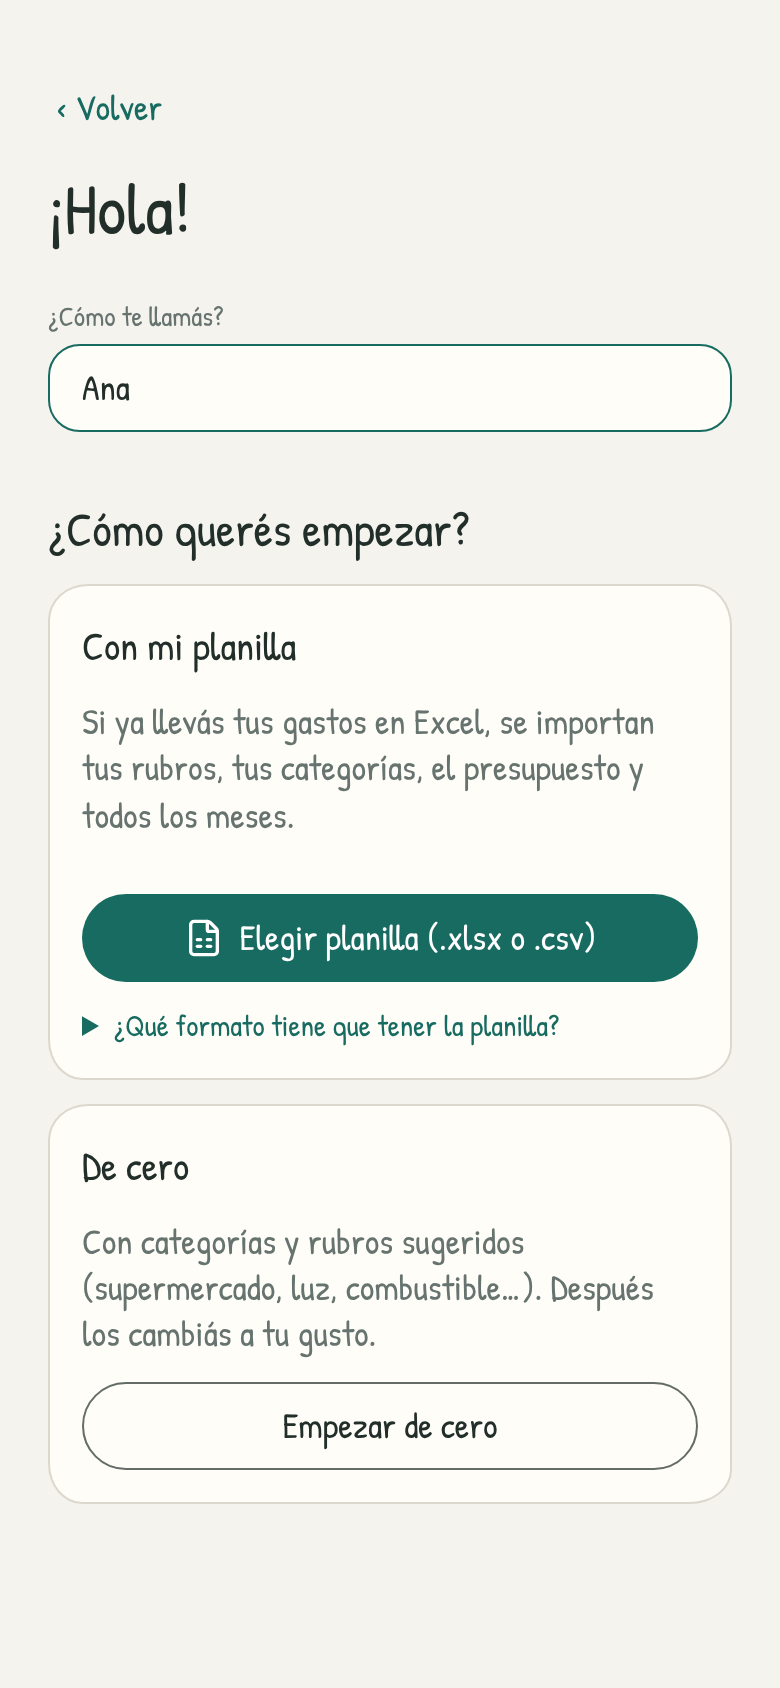
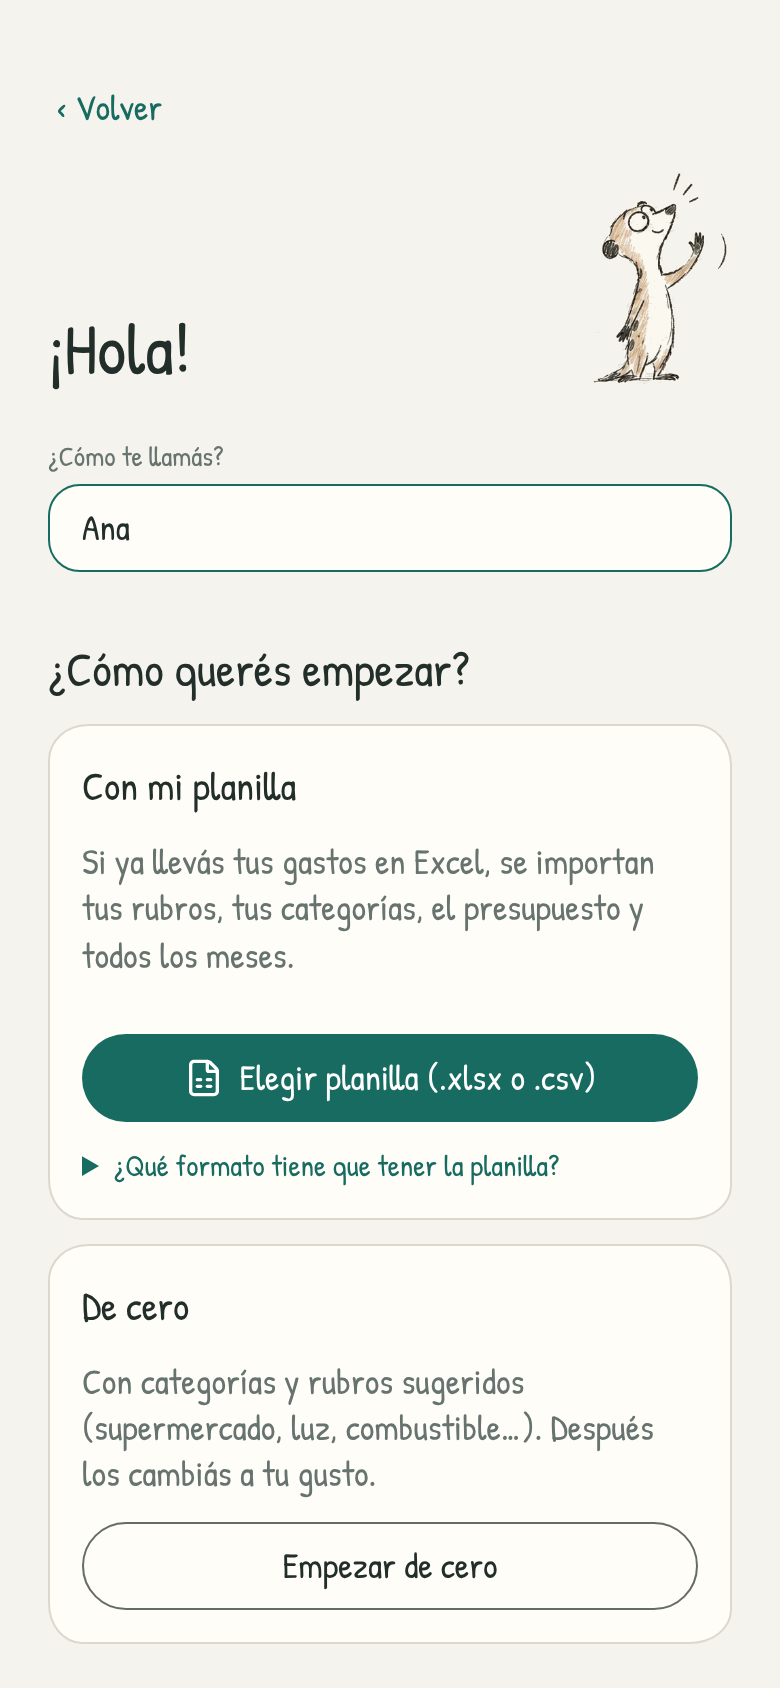
Suricata: el personaje de Pengar en la app; solo modo claro
- Poses recortadas de la hoja de personaje (scripts/suricata.py), con la silueta rellena de papel
- Bienvenida, saludo en Inicio, cara según cómo viene el mes, estados vacíos, lectura de facturas,
  metas (festeja al llegar), presupuesto, categorías y ayuda
- Ícono de la app con el suricata principal
- Sin modo oscuro por ahora (también en iOS: UIUserInterfaceStyle Light)

Claude-Session: https://claude.ai/code/session_01Qseq1gkBETEkqbL7BodUmT

diff --git a/src/screens/Home.tsx b/src/screens/Home.tsx
@@ -1,7 +1,7 @@
 import { ArrowDown, ArrowUp, Camera, Minus, Plus, Target } from 'lucide-react';
 import { BudgetRows } from '../components/charts/BudgetRows';
 import { Columns } from '../components/charts/Columns';
-import { Sprout } from '../components/Illustrations';
+import { Suricata, type Pose } from '../components/Suricata';
 import { MovementRow } from '../components/MovementRow';
 import { addMonths, currentMonth, monthLabel } from '../domain/dates';
 import { formatPct } from '../domain/money';
@@ -36,27 +36,32 @@ export function Home({ onAdd, onScan, onEdit, onGo }: {
     .sort((a, b) => b.date.localeCompare(a.date) || b.createdAt - a.createdAt)
     .slice(0, 5);
   const hasMonthsOnly = !recent.length && data.movements.length > 0;
+  // La cara del suricata según cómo viene el mes
+  const mood: Pose = k.balance < 0 ? 'cara-preocupado' : summary.budget > 0 && summary.diff > 0 ? 'cara-pensando' : k.income > 0 ? 'cara-feliz' : 'cara-normal';
 
   return (
     <div className="space-y-4 px-4 pt-[calc(env(safe-area-inset-top)+16px)]">
-      <header className="px-1">
-        <div className="text-xl text-muted">Hola,</div>
-        <h1 className="text-4xl leading-tight">{data.settings.name || 'de nuevo'}</h1>
+      <header className="flex items-end justify-between px-1">
+        <div className="pb-2">
+          <div className="text-xl text-muted">Hola,</div>
+          <h1 className="text-4xl leading-tight">{data.settings.name || 'de nuevo'}</h1>
+        </div>
+        <Suricata pose="saludando" size={92} />
       </header>
 
       <section className="card relative overflow-hidden p-5">
         <div className="text-lg text-muted">Te queda en {monthLabel(month, { year: false }).toLowerCase()}</div>
         <div className={`mt-1 text-[44px] leading-none ${k.balance < 0 ? 'text-danger' : ''}`}>{money(k.balance)}</div>
-        <div className="mt-2 text-[15px] text-muted">
+        <div className="mt-2 pr-20 text-[15px] text-muted">
           Entró {money(k.income)} · Gastaste {money(k.expense)}{savings > 0 ? ` · Ahorraste ${money(savings)}` : ''}
         </div>
         {change != null && (
-          <div className={`mt-2 flex items-center gap-1 text-[15px] ${change > 0 ? 'text-danger' : 'text-ok'}`}>
+          <div className={`mt-2 flex items-center gap-1 pr-20 text-[15px] ${change > 0 ? 'text-danger' : 'text-ok'}`}>
             {change > 0 ? <ArrowUp size={16} /> : <ArrowDown size={16} />}
             {formatPct(Math.abs(change))} {change > 0 ? 'más' : 'menos'} de gastos que el mes anterior
           </div>
         )}
-        <Sprout className="absolute -right-1 top-3 h-24 w-24 opacity-90" />
+        <Suricata pose={mood} size={104} className="absolute -bottom-1 right-2" />
       </section>
 
       <section className="grid grid-cols-4 gap-2 px-1">
@@ -104,11 +109,14 @@ export function Home({ onAdd, onScan, onEdit, onGo }: {
         {recent.length ? (
           <div className="divide-y divide-line">{recent.map((m) => <MovementRow key={m.id} m={m} onClick={() => onEdit(m)} />)}</div>
         ) : (
-          <p className="py-4 text-muted">
+          <div className="flex items-center gap-3 py-3">
+            <Suricata pose="lista" size={96} />
+            <p className="text-muted">
             {hasMonthsOnly
               ? 'Tus meses importados están en Movimientos. Lo que anotes desde ahora aparece acá, día por día.'
               : 'Todavía no anotaste nada. Tocá «Gasto» o sacale una foto a una factura.'}
-          </p>
+            </p>
+          </div>
         )}
       </section>
       <div className="h-4" />

diff --git a/src/screens/Stats.tsx b/src/screens/Stats.tsx
@@ -6,6 +6,7 @@ import { HBars } from '../components/charts/HBars';
 import { Legend, TimeChart } from '../components/charts/TimeChart';
 import { Icon } from '../components/Icon';
 import { PageHeader } from '../components/Sheet';
+import { EmptyState, Suricata } from '../components/Suricata';
 import { Segmented, Toggle } from '../components/Toggle';
 import { addMonths, currentMonth, monthLabel, monthOf } from '../domain/dates';
 import { formatPct } from '../domain/money';
@@ -76,7 +77,7 @@ function Trends() {
   const activeGroup = folded.find((g) => g.key === active);
   const label = by === 'category' ? 'categoría' : 'rubro';
 
-  if (!span) return <p className="py-10 text-center text-muted">Cuando anotes gastos, acá vas a ver cómo cambian en el tiempo.</p>;
+  if (!span) return <EmptyState pose="analizando" title="Todavía no hay números">Cuando anotes gastos, acá vas a ver cómo cambian en el tiempo.</EmptyState>;
 
   return (
     <>
@@ -168,6 +169,7 @@ function MonthView({ month, setMonth }: { month: string; setMonth: (m: string) =
   const [open, setOpen] = useState<string | null>(null);
   const s = monthSummary(data, ix, month, includeSavings);
   const cards = percentCards(data, ix, month);
+  const over = s.rows.find((r) => r.status === 'over');
 
   const detail = useMemo(() => {
     const byCat = new Map<string, Map<string, number>>();
@@ -197,6 +199,17 @@ function MonthView({ month, setMonth }: { month: string; setMonth: (m: string) =
         <Kpi label="Presupuesto" value={money(s.budget)} />
         <Kpi label={s.diff > 0 ? 'Pasado del presupuesto' : 'Debajo del presupuesto'} value={money(Math.abs(s.diff))} tone={s.diff > 0 ? 'danger' : 'ok'} />
       </div>
+
+      {s.budget > 0 && (
+        <div className="card flex items-center gap-3 px-4 py-2">
+          <Suricata pose={s.diff > 0 ? 'cara-preocupado' : 'cara-feliz'} size={84} />
+          <p className="text-[17px]">
+            {s.diff > 0
+              ? <>Este mes te pasaste {money(s.diff)} del presupuesto. {over ? <>Lo que más se fue: <b>{over.category.name}</b>.</> : null}</>
+              : <>¡Vas bien! Te quedan {money(-s.diff)} del presupuesto de {monthLabel(month, { year: false }).toLowerCase()}.</>}
+          </p>
+        </div>
+      )}
 
       <Card title="Real contra presupuesto" sub="La barra es lo gastado; la rayita, el presupuesto de la categoría.">
         {s.rows.length ? <BudgetRows rows={s.rows} onSelect={(id) => setOpen(open === id ? null : id)} /> : <p className="text-muted">No hay gastos ni presupuesto este mes.</p>}

diff --git a/src/screens/Goals.tsx b/src/screens/Goals.tsx
@@ -2,6 +2,7 @@ import { Plus } from 'lucide-react';
 import { useState } from 'react';
 import { CategoryBubble, Icon } from '../components/Icon';
 import { PageHeader, Sheet } from '../components/Sheet';
+import { EmptyState, Suricata } from '../components/Suricata';
 import { parseAmount } from '../domain/money';
 import { ICON_CHOICES, newId } from '../domain/template';
 import type { Goal } from '../domain/types';
@@ -23,20 +24,23 @@ export function Goals({ onBack }: { onBack: () => void }) {
       />
       <div className="space-y-3 px-4 pb-10">
         {!data.goals.length && (
-          <div className="card p-5 text-center">
-            <p className="text-lg">¿Estás juntando para algo?</p>
-            <p className="text-muted">Vacaciones, el auto, la casa… Poné cuánto necesitás y andá sumando.</p>
-            <button className="btn-primary mt-4" onClick={() => setEdit('new')}><Plus size={18} /> Nueva meta</button>
+          <div className="card">
+            <EmptyState pose="metas" title="¿Estás juntando para algo?">
+              <p>Vacaciones, el auto, la casa… Poné cuánto necesitás y andá sumando.</p>
+              <button className="btn-primary mt-4" onClick={() => setEdit('new')}><Plus size={18} /> Nueva meta</button>
+            </EmptyState>
           </div>
         )}
         {data.goals.map((g) => {
           const pct = g.target > 0 ? Math.min(1, g.saved / g.target) : 0;
           return (
             <div key={g.id} className="card flex items-center gap-4 p-4">
-              <button onClick={() => setEdit(g)} aria-label={`Editar ${g.name}`}><CategoryBubble icon={g.icon} color="#176B60" size={60} /></button>
+              <button onClick={() => setEdit(g)} aria-label={`Editar ${g.name}`}>
+                {pct >= 1 ? <Suricata pose="celebrando" size={64} /> : <CategoryBubble icon={g.icon} color="#176B60" size={60} />}
+              </button>
               <div className="min-w-0 flex-1">
                 <button className="w-full text-left" onClick={() => setEdit(g)}>
-                  <div className="text-xl">{g.name}</div>
+                  <div className="text-xl">{g.name}{pct >= 1 && <span className="ml-2 text-[15px] text-ok">¡Lo lograste!</span>}</div>
                   <div className="text-[16px]">{money(g.saved)} <span className="text-muted">/ {money(g.target)}</span></div>
                 </button>
                 <div className="mt-2 flex items-center gap-2">

diff --git a/src/screens/Welcome.tsx b/src/screens/Welcome.tsx
@@ -1,7 +1,7 @@
 import { useRef, useState } from 'react';
 import { ImportFlow, ImportFormatHelp } from '../components/ImportFlow';
 import { Landscape } from '../components/Illustrations';
-import { LogoMark } from '../components/Logo';
+import { Suricata } from '../components/Suricata';
 import { readBackup } from '../lib/backup';
 import { useStore } from '../store/store';
 
@@ -15,11 +15,11 @@ export function Welcome() {
 
   if (step === 'hola') {
     return (
-      <div className="flex min-h-full flex-col items-center px-8 pt-[calc(env(safe-area-inset-top)+12vh)] pb-[calc(env(safe-area-inset-bottom)+24px)]">
-        <LogoMark size={120} />
-        <h1 className="mt-2 text-6xl">Pengar</h1>
+      <div className="flex min-h-full flex-col items-center px-8 pt-[calc(env(safe-area-inset-top)+7vh)] pb-[calc(env(safe-area-inset-bottom)+24px)]">
+        <Suricata pose="principal" size={240} />
+        <h1 className="mt-1 text-6xl">Pengar</h1>
         <p className="mt-1 text-xl text-muted">Tu dinero, más simple.</p>
-        <Landscape className="mt-auto w-full max-w-sm" />
+        <Landscape className="mt-auto w-full max-w-sm opacity-90" />
         <div className="mt-6 flex w-full max-w-sm flex-col gap-3">
           <button className="btn-primary text-xl" onClick={() => setStep('empezar')}>Comenzar</button>
           <button className="btn-outline" onClick={() => backupInput.current?.click()}>Restaurar un respaldo</button>
@@ -49,7 +49,10 @@ export function Welcome() {
   return (
     <div className="mx-auto max-w-md px-6 pt-[calc(env(safe-area-inset-top)+32px)] pb-[calc(env(safe-area-inset-bottom)+32px)]">
       <button className="btn-ghost -ml-4" onClick={() => setStep('hola')}>‹ Volver</button>
-      <h1 className="mt-2 text-4xl">¡Hola!</h1>
+      <div className="mt-2 flex items-end justify-between">
+        <h1 className="text-4xl">¡Hola!</h1>
+        <Suricata pose="saludando" size={110} />
+      </div>
       <label className="mt-6 block">
         <span className="label">¿Cómo te llamás?</span>
         <input className="field" value={name} onChange={(e) => setName(e.target.value)} placeholder="Tu nombre" autoFocus />

diff --git a/src/screens/Settings.tsx b/src/screens/Settings.tsx
@@ -2,14 +2,12 @@ import { Download, Sparkles, Upload } from 'lucide-react';
 import { useRef, useState } from 'react';
 import { ImportFlow, ImportFormatHelp } from '../components/ImportFlow';
 import { PageHeader } from '../components/Sheet';
-import { Segmented } from '../components/Toggle';
 import { useToast } from '../components/Toast';
 import { today } from '../domain/dates';
 import { movementsCsv } from '../domain/export';
 import { emptyData } from '../domain/template';
 import { makeBackup, readBackup } from '../lib/backup';
 import { saveOrShare } from '../lib/files';
-import { getTheme, setTheme, type ThemeChoice } from '../lib/theme';
 import { useStore } from '../store/store';
 
 const MODELS = [
@@ -31,7 +29,6 @@ export function Settings({ onBack }: { onBack: () => void }) {
   const { data, updateSettings, replaceAll } = useStore();
   const toast = useToast();
   const s = data.settings;
-  const [theme, setThemeState] = useState<ThemeChoice>(getTheme());
   const [importing, setImporting] = useState(false);
   const [showKey, setShowKey] = useState(false);
   const restore = useRef<HTMLInputElement>(null);
@@ -57,14 +54,6 @@ export function Settings({ onBack }: { onBack: () => void }) {
                 <option value={2}>Con 2 decimales</option>
               </select>
             </div>
-          </div>
-          <div>
-            <div className="label">Apariencia</div>
-            <Segmented
-              value={theme}
-              onChange={(t) => { setThemeState(t); setTheme(t); }}
-              options={[{ id: 'auto', label: 'Como el iPhone' }, { id: 'light', label: 'Clara' }, { id: 'dark', label: 'Oscura' }]}
-            />
           </div>
         </Section>
 

diff --git a/src/components/Suricata.tsx b/src/components/Suricata.tsx
@@ -1,0 +1,28 @@
+/**
+ * El suricata de Pengar, dibujado a lápiz. Cada pose es un recorte de docs/marca (ver scripts/suricata.py).
+ * Poses de cuerpo entero para estados vacíos y pantallas; caras («cara-…») para reaccionar a los números.
+ */
+const files = import.meta.glob<string>('../assets/suricata/*.webp', { eager: true, query: '?url', import: 'default' });
+
+export type Pose =
+  | 'principal' | 'saludando' | 'contento' | 'ahorrando' | 'pensando' | 'calculadora' | 'lista' | 'organizando'
+  | 'analizando' | 'metas' | 'compras' | 'transportes' | 'casa' | 'celebrando'
+  | 'cara-normal' | 'cara-feliz' | 'cara-sorprendido' | 'cara-pensando' | 'cara-preocupado' | 'cara-decidido'
+  | 'cara-triste' | 'cara-entusiasmado' | 'cara-curioso';
+
+export function Suricata({ pose, size = 120, className = '', alt = '' }: { pose: Pose; size?: number; className?: string; alt?: string }) {
+  const src = files[`../assets/suricata/${pose}.webp`];
+  if (!src) return null;
+  return <img src={src} alt={alt} draggable={false} className={`pointer-events-none select-none object-contain ${className}`} style={{ height: size, width: 'auto' }} />;
+}
+
+/** Estado vacío: el suricata con un texto debajo */
+export function EmptyState({ pose, title, children }: { pose: Pose; title: string; children?: React.ReactNode }) {
+  return (
+    <div className="flex flex-col items-center px-6 py-8 text-center">
+      <Suricata pose={pose} size={150} />
+      <p className="mt-3 text-xl">{title}</p>
+      {children && <div className="mt-1 text-muted">{children}</div>}
+    </div>
+  );
+}

diff --git a/src/screens/ScanInvoice.tsx b/src/screens/ScanInvoice.tsx
@@ -2,6 +2,7 @@ import { Camera, FileText, ImageIcon, Plus, Sparkles, Trash2 } from 'lucide-reac
 import { useEffect, useMemo, useRef, useState } from 'react';
 import { RubroPicker } from '../components/RubroPicker';
 import { PageHeader, Sheet } from '../components/Sheet';
+import { Suricata } from '../components/Suricata';
 import { Segmented } from '../components/Toggle';
 import { useToast } from '../components/Toast';
 import { suggestRubro } from '../domain/classify';
@@ -64,13 +65,15 @@ export function ScanInvoice({ onClose }: { onClose: () => void }) {
       {input(pdf, 'application/pdf,.pdf')}
       {progress ? (
         <div className="flex flex-col items-center gap-4 px-8 py-24 text-center">
-          <div className="h-12 w-12 animate-spin rounded-full border-4 border-soft border-t-primary" />
+          <Suricata pose="calculadora" size={170} className="animate-pulse" />
           <p className="text-xl">{progress}</p>
+          <div className="h-6 w-6 animate-spin rounded-full border-[3px] border-soft border-t-primary" />
         </div>
       ) : draft ? (
         <Review draft={draft} onDone={onClose} onRetry={() => setDraft(null)} />
       ) : (
         <div className="space-y-3 px-4 pb-10">
+          <div className="flex justify-center"><Suricata pose="lista" size={150} /></div>
           <p className="px-1 text-lg text-muted">
             Sacale una foto a un ticket o subí el PDF de una factura. Pengar lee el comercio, la fecha, el total y cada renglón, y le pone el rubro.
           </p>

diff --git a/src/screens/Budget.tsx b/src/screens/Budget.tsx
@@ -1,6 +1,7 @@
 import { useState } from 'react';
 import { Icon } from '../components/Icon';
 import { PageHeader } from '../components/Sheet';
+import { Suricata } from '../components/Suricata';
 import { currentMonth } from '../domain/dates';
 import { parseAmount } from '../domain/money';
 import { budgetAmount, incomeFor } from '../domain/stats';
@@ -20,7 +21,10 @@ export function Budget({ onBack }: { onBack: () => void }) {
     <div>
       <PageHeader title="Presupuesto" onBack={onBack} />
       <div className="space-y-4 px-4 pb-10">
-        <p className="px-1 text-muted">Cuánto pensás gastar por mes en cada categoría. Se compara con lo real en Estadísticas → Mes.</p>
+        <div className="flex items-center gap-3 px-1">
+          <p className="flex-1 text-muted">Cuánto pensás gastar por mes en cada categoría. Se compara con lo real en Estadísticas → Mes.</p>
+          <Suricata pose="organizando" size={90} />
+        </div>
         <div className="grid grid-cols-2 gap-3">
           <div className="card px-4 py-3"><div className="text-[15px] text-muted">Gastos sin ahorro</div><div className="text-2xl">{money(noSavings)}</div></div>
           <div className="card px-4 py-3"><div className="text-[15px] text-muted">Con ahorro</div><div className="text-2xl">{money(total)}</div></div>

diff --git a/src/screens/Movements.tsx b/src/screens/Movements.tsx
@@ -2,6 +2,7 @@ import { ChevronLeft, ChevronRight, Plus, Search } from 'lucide-react';
 import { useMemo, useState } from 'react';
 import { MovementRow } from '../components/MovementRow';
 import { PageHeader } from '../components/Sheet';
+import { EmptyState } from '../components/Suricata';
 import { addMonths, currentMonth, dayLabel, monthLabel, monthOf } from '../domain/dates';
 import { norm } from '../domain/importSheet';
 import type { Movement } from '../domain/types';
@@ -82,7 +83,11 @@ export function Movements({ onAdd, onEdit, month, setMonth }: {
             <div className="divide-y divide-line">{g.items.map((m) => <MovementRow key={m.id} m={m} onClick={() => onEdit(m)} />)}</div>
           </section>
         ))}
-        {!groups.length && <p className="py-10 text-center text-muted">{q ? 'Nada coincide con la búsqueda.' : 'No hay movimientos este mes.'}</p>}
+        {!groups.length && (
+          <EmptyState pose={q ? 'pensando' : 'lista'} title={q ? 'Nada coincide con la búsqueda' : 'No hay movimientos este mes'}>
+            {!q && 'Anotá un gasto con el + o escaneá una factura.'}
+          </EmptyState>
+        )}
         <div className="h-20" />
       </div>
       <button

diff --git a/src/screens/Categories.tsx b/src/screens/Categories.tsx
@@ -2,6 +2,7 @@ import { ChevronRight, Plus } from 'lucide-react';
 import { useState } from 'react';
 import { CategoryBubble, Icon } from '../components/Icon';
 import { PageHeader, Sheet } from '../components/Sheet';
+import { Suricata } from '../components/Suricata';
 import { Segmented, Toggle } from '../components/Toggle';
 import { useToast } from '../components/Toast';
 import { guessIcon, norm } from '../domain/importSheet';
@@ -69,10 +70,13 @@ export function Categories({ onBack }: { onBack: () => void }) {
     <div>
       <PageHeader title="Categorías y rubros" onBack={onBack} />
       <div className="space-y-5 px-4 pb-10">
-        <p className="px-1 text-muted">
+        <div className="flex items-center gap-3 px-1">
+        <p className="flex-1 text-muted">
           Las <b>categorías</b> agrupan (Alimentación, Transporte…) y tienen presupuesto. Los <b>rubros</b> son lo que elegís al anotar (Feria, UTE, Netflix…).
           Tocá el ícono para cambiar nombre, color o ícono.
         </p>
+        <Suricata pose="compras" size={100} />
+        </div>
         {section('gasto', 'Gastos')}
         {section('ingreso', 'Ingresos')}
       </div>

diff --git a/src/components/Illustrations.tsx b/src/components/Illustrations.tsx
@@ -25,16 +25,3 @@ export function Landscape({ className }: { className?: string }) {
     </svg>
   );
 }
-
-export function Sprout({ className }: { className?: string }) {
-  return (
-    <svg viewBox="0 0 80 80" className={className} fill="none" strokeLinecap="round" strokeLinejoin="round" aria-hidden>
-      <path d="M8 72 C24 68 56 68 72 72" stroke="#8A9894" strokeWidth="1.5" />
-      <path d="M40 70 C40 56 41 44 44 34" stroke="#176B60" strokeWidth="2" />
-      <path d="M43 38 C46 22 58 12 74 10 C72 28 60 38 43 38 Z" fill="#7FC4AC" fillOpacity="0.6" stroke="#176B60" strokeWidth="1.6" />
-      <path d="M46 35 C54 28 62 20 70 14" stroke="#176B60" strokeWidth="1" />
-      <path d="M41 50 C34 38 22 34 10 36 C14 48 26 54 41 50 Z" fill="#7FC4AC" fillOpacity="0.45" stroke="#176B60" strokeWidth="1.6" />
-      <path d="M38 48 C30 44 22 40 14 38" stroke="#176B60" strokeWidth="1" />
-    </svg>
-  );
-}

diff --git a/src/screens/Help.tsx b/src/screens/Help.tsx
@@ -1,4 +1,5 @@
 import { PageHeader } from '../components/Sheet';
+import { Suricata } from '../components/Suricata';
 
 const TOPICS: [string, string][] = [
   ['Anotar un gasto', 'En Inicio tocá «Gasto» (o el + en Movimientos), escribí el monto y elegí el rubro. Listo: la fecha es hoy salvo que la cambies. Los rubros que más usás aparecen primero.'],
@@ -15,6 +16,7 @@ export function Help({ onBack }: { onBack: () => void }) {
     <div>
       <PageHeader title="Cómo se usa" onBack={onBack} />
       <div className="space-y-3 px-4 pb-10">
+        <div className="flex justify-center"><Suricata pose="cara-curioso" size={120} /></div>
         {TOPICS.map(([t, body]) => (
           <section key={t} className="card p-4">
             <h2 className="text-xl">{t}</h2>
